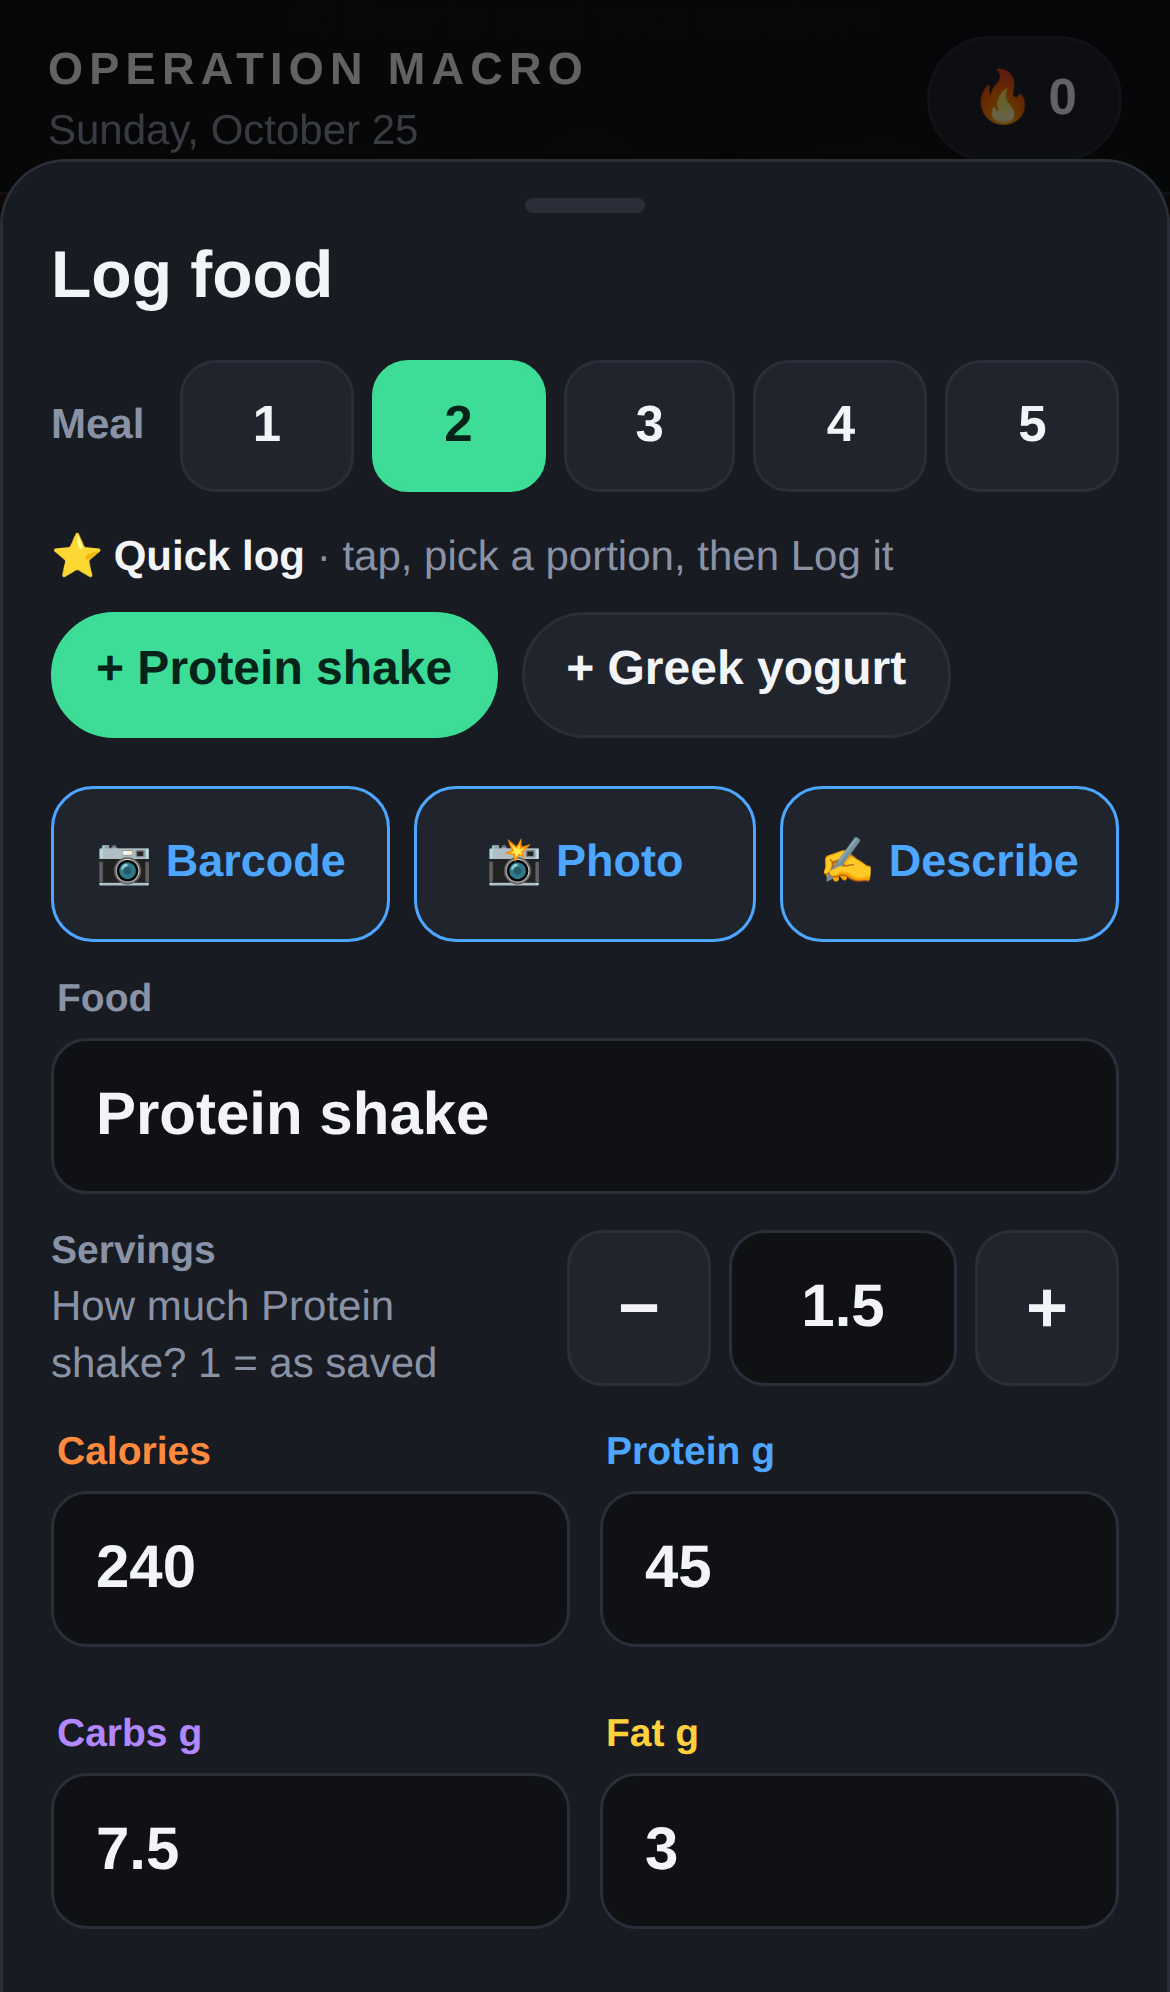
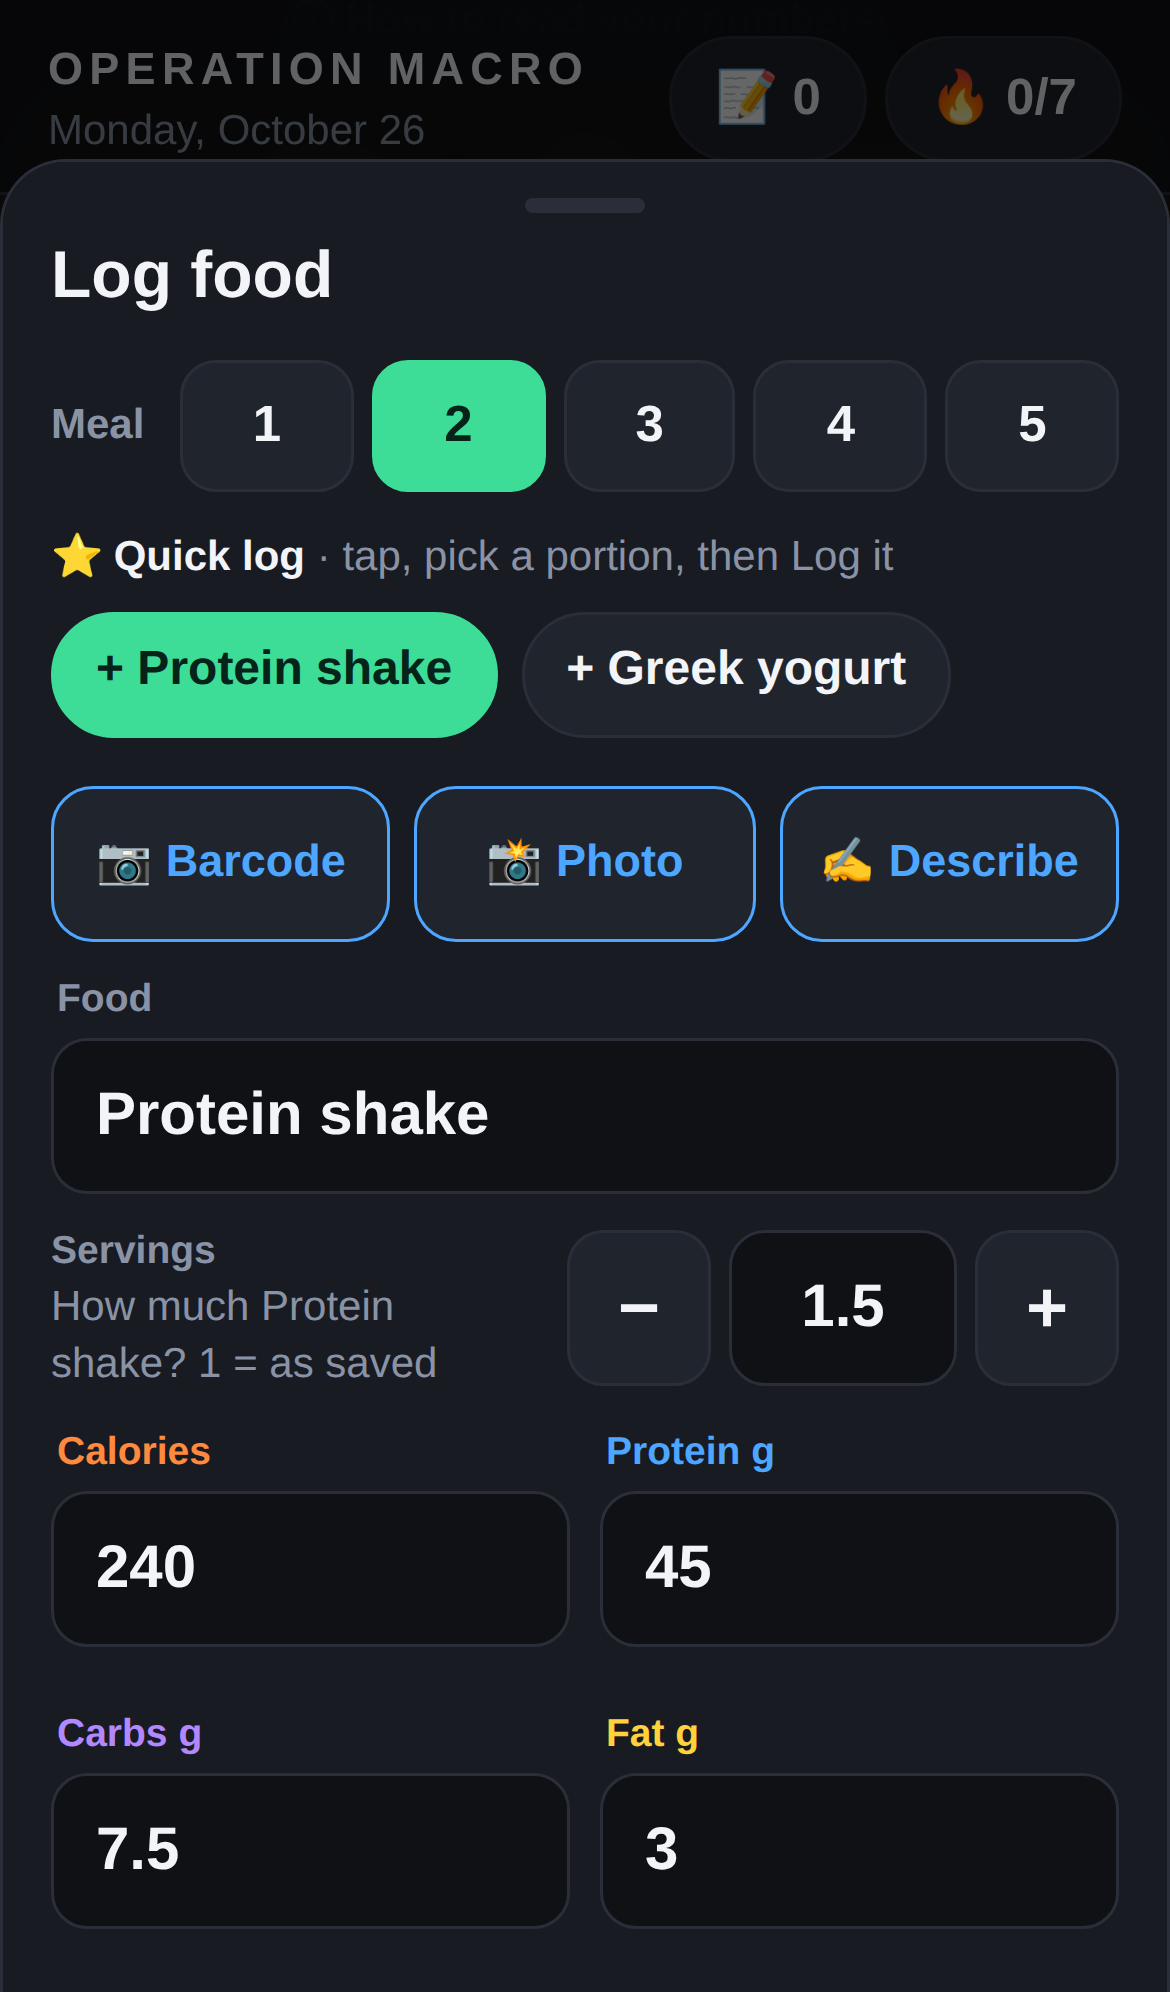
Meals from Describe or Photo open to show each food's breakdown
A meal logged from an estimate keeps its foods (and favorites made from it do
too). On Today, every row shows calories, protein, carbs and fat in their
colors; a grouped meal has a '4 foods' tag and opens to list each food with
its own numbers, plus Change portions to edit each one.

Claude-Session: https://claude.ai/code/session_019qvPJAGJHdnoonbEyePPHH

diff --git a/app.js b/app.js
@@ -10,7 +10,7 @@ const ACCOUNT_SLOT = 'opmacro_account';
 const account = authOn ? (() => { try { return JSON.parse(localStorage.getItem(ACCOUNT_SLOT)); } catch (e) { return null; } })() : null;
 const LEGACY_KEY = 'opmacro_v1', LEGACY_AI_KEY = 'opmacro_ai_key';
 // Signed out (with sign-in on): nothing is read or written until someone signs in.
-const APP_VERSION = 'v63'; // keep in step with sw.js VERSION
+const APP_VERSION = 'v64'; // keep in step with sw.js VERSION
 const STORE_KEY = !authOn ? LEGACY_KEY : account ? `${LEGACY_KEY}:${account.id}` : null;
 const DEFAULT_SETTINGS = { cal: 2200, protein: 225, carbs: 65, fat: 70, weight: 250, goalWeight: 225, sundayLock: true };
 // Ring order on the home screen. k = key on an entry, t = key in settings.
@@ -169,6 +169,7 @@ const sumOf = es => es.reduce((t, e) => ({ cal: t.cal + (+e.cal || 0), p: t.p + 
 
 function addEntry(data) {
   const e = { id: uid(), name: data.name, cal: data.cal, p: data.p, c: data.c, f: data.f, meal: data.meal || defaultMeal(), t: Date.now() };
+  if (data.parts) e.parts = data.parts;
   todayDay().entries.push(e);
   save();
   render();
@@ -201,6 +202,7 @@ function upsertFavorite(data, id) {
                : state.favorites.find(f => f.name.toLowerCase() === data.name.toLowerCase());
   if (!fav) { fav = { id: uid(), uses: 0 }; state.favorites.push(fav); }
   Object.assign(fav, { name: data.name, cal: data.cal, p: data.p, c: data.c, f: data.f });
+  if (data.parts) fav.parts = data.parts; else delete fav.parts;
   save();
 }
 // Quick log and the Favorites tab fill the Log food form instead of logging straight away,
@@ -209,6 +211,7 @@ function fillFavorite(id) {
   const fav = state.favorites.find(f => f.id === id);
   if (!fav || !sheet) return;
   sheet.fav = fav.id;
+  sheet.favParts = fav.parts || null;
   $('#in-name').value = fav.name;
   perServing = {};
   IN.forEach(k => { perServing[k] = fav[k] != null ? +fav[k] : null; });
@@ -366,10 +369,19 @@ function renderToday() {
       .map(([k, l, color]) => `<span><i class="dot" style="background:${color}"></i><b>${fmt(t[k])}</b> ${l}</span>`).join('');
     const items = open ? `<div class="meal-items">${entries.map(e => {
       const isFav = favNames.has(e.name.toLowerCase());
+      const parts = e.parts && e.parts.length > 1 ? e.parts : null, shown = parts && openGroups.has(e.id);
+      const group = parts ? `<span class="group-tag">${shown ? '▾' : '▸'} ${parts.length} foods</span>` : '';
       return `<div class="swipe" data-swipe="${e.id}">
           <div class="swipe-bg"><span class="swipe-fav">⭐ Favorite</span><span class="swipe-del">Delete 🗑</span></div>
-          <button class="entry slim swipe-move" data-entry="${e.id}"><span class="entry-name">${isFav ? '⭐ ' : ''}${esc(e.name)}</span><span class="entry-macros"><b>${fmt(e.cal)}</b> cal · P ${fmt1(e.p)}</span></button>
-        </div>`;
+          <button class="entry slim swipe-move" data-entry="${e.id}"${parts ? ` data-group="${e.id}"` : ''}>
+            <span class="entry-name">${isFav ? '⭐ ' : ''}${esc(e.name)} ${group}</span><span class="entry-macros">${macroLine(e)}</span></button>
+        </div>${shown ? `<div class="group-items">${parts.map(pt => {
+          const m = pt.mult || 1, amt = { cal: pt.cal * m, p: pt.p * m, c: pt.c * m, f: pt.f * m };
+          const sub = [pt.official ? '✓ ' + pt.official : pt.portion, m !== 1 ? `×${+m.toFixed(2)}` : ''].filter(Boolean).join(' · ');
+          return `<div class="group-row"><div class="group-food"><b>${esc(pt.food)}</b>${sub ? `<small>${esc(sub)}</small>` : ''}</div>
+            <div class="entry-macros">${macroLine(amt)}</div></div>`;
+        }).join('')}
+          <button class="link-btn group-edit" type="button" data-entry="${e.id}">✎ Change portions</button></div>` : ''}`;
     }).join('')}</div>` : '';
     return `<div class="meal-card${open ? ' open' : ''}">
       <div class="meal-head" data-meal-toggle="${key}">
@@ -383,10 +395,23 @@ function renderToday() {
   }).join('');
 }
 
-// Which meal cards are open (this visit only; they start closed).
-const openMeals = new Set();
+// Calories plus each macro in its ring color.
+function macroLine(x) {
+  return `<b>${fmt(x.cal)}</b> cal · <span class="mp">P ${fmt1(x.p || 0)}</span> · <span class="mc">C ${fmt1(x.c || 0)}</span> · <span class="mf">F ${fmt1(x.f || 0)}</span>`;
+}
+// Which meal cards, and which grouped meals inside them, are open (this visit only).
+const openMeals = new Set(), openGroups = new Set();
 $('#log').addEventListener('click', ev => {
   if (ev.target.closest('[data-meal-add]')) return;
+  // A meal made of several foods opens to show each one; "Change portions" inside edits it.
+  const grp = ev.target.closest('[data-group]');
+  if (grp) {
+    ev.stopPropagation();
+    const id = grp.dataset.group;
+    openGroups.has(id) ? openGroups.delete(id) : openGroups.add(id);
+    renderToday();
+    return;
+  }
   const t = ev.target.closest('[data-meal-toggle]');
   if (!t) return;
   const k = t.dataset.mealToggle === 'other' ? 'other' : +t.dataset.mealToggle;
@@ -780,7 +805,11 @@ function openSheet(mode, item, prefill, meal) {
   $('#backdrop').hidden = false;
   resetScanState();
   $('#capture-row').hidden = mode === 'entry';
-  if (mode === 'entry' && item) {
+  if (mode === 'entry' && item && item.parts && item.parts.length) {
+    // A meal of several foods: change each food's portion with − / +.
+    estItems = item.parts.map(pt => ({ ...pt, mult: pt.mult || 1, official: pt.official || '' }));
+    showEstItems();
+  } else if (mode === 'entry' && item) {
     // Change the portion of something already logged: the stepper scales its numbers.
     // "Chicken ×2" opens as Chicken at 2 servings.
     const m = servingsIn(item.name);
@@ -824,6 +853,23 @@ function readForm() {
   return data;
 }
 
+// The foods inside a meal from Describe or Photo (or a favorite made from one), at the amounts
+// being logged, so Today can show each one's breakdown. Skipped if the totals were typed over.
+function mealParts(data) {
+  const r = (v, d) => Math.round((+v || 0) * d) / d;
+  let parts = null;
+  if (estItems && estItems.length) {
+    // Each food keeps its matched amount (cal, p, c, f) and how much of it (mult).
+    parts = estItems.filter(it => it.mult > 0).map(it => ({ food: it.food, portion: it.portion || '', official: it.official || '',
+      cal: it.cal, p: it.p, c: it.c, f: it.f, mult: it.mult }));
+  } else if (sheet && sheet.favParts && perServing) {
+    parts = sheet.favParts.map(pt => ({ ...pt, mult: r((pt.mult || 1) * servings, 100) }));
+  }
+  if (!parts || parts.length < 2) return null;
+  const sum = parts.reduce((t, pt) => t + pt.cal * (pt.mult || 1), 0);
+  return Math.abs(sum - data.cal) <= Math.max(15, data.cal * 0.05) ? parts : null;
+}
+
 // Typed a meal in the Food box but no numbers? Estimate it instead of logging zeros.
 function needsEstimate() {
   if (!sheet || !$('#in-name').value.trim()) return false;
@@ -858,6 +904,8 @@ $('#entry-form').addEventListener('submit', async ev => {
   if (!data) { $('#in-name').focus(); return; }
   const { mode, id, code, fav } = sheet;
   if (sheet.meal) data.meal = sheet.meal;
+  const parts = mealParts(data);
+  if (parts) data.parts = parts;
   const asFav = $('#in-fav').checked;
   if (code) rememberBarcode(code, data);
   if (perServing && servings !== 1) data.name = `${data.name} ×${servings}`;
@@ -870,7 +918,7 @@ $('#entry-form').addEventListener('submit', async ev => {
     toast(`Logged ${data.name} · Meal ${e.meal}${asFav ? ' ★' : ''}`);
   } else if (mode === 'entry') {
     const e = todayDay().entries.find(x => x.id === id);
-    if (e) Object.assign(e, data);
+    if (e) { Object.assign(e, data); if (!data.parts) delete e.parts; }
     if (asFav) upsertFavorite(data);
     save(); render(); checkHoorah();
     toast('Entry updated');

diff --git a/style.css b/style.css
@@ -559,11 +559,20 @@ input:focus { border-color: var(--pro); }
 .meal-day { margin-left: auto; }
 .meal-day b { color: var(--cal); }
 .meal-items { border-top: 1px solid var(--line); margin-top: 10px; padding-top: 4px; display: flex; flex-direction: column; }
-.entry.slim { display: flex; justify-content: space-between; align-items: center; gap: 10px; min-height: 44px; padding: 8px 2px;
+.entry.slim { display: flex; flex-direction: column; align-items: flex-start; gap: 2px; min-height: 44px; padding: 8px 2px; text-align: left;
   background: var(--card); border: 0; border-radius: 0; border-bottom: 1px solid var(--line); }
 .meal-items .swipe:last-child .entry.slim { border-bottom: 0; }
 .entry.slim .entry-name { font-size: 15px; font-weight: 600; }
-.entry.slim .entry-macros { margin: 0; white-space: nowrap; font-size: 13px; }
+.entry.slim .entry-macros, .group-row .entry-macros { margin: 0; white-space: nowrap; font-size: 13px; color: var(--muted); }
+.entry-macros b { color: var(--cal); }
+.mp { color: var(--pro); } .mc { color: var(--carb); } .mf { color: var(--fat); }
+.group-tag { display: inline-block; margin-left: 4px; padding: 1px 8px; border-radius: 10px; background: var(--card2);
+  color: var(--muted); font-size: 12px; font-weight: 700; white-space: nowrap; }
+.group-items { margin: 0 0 8px 10px; padding: 2px 0 2px 12px; border-left: 3px solid var(--line); }
+.group-row { padding: 7px 0; border-bottom: 1px dashed var(--line); }
+.group-food b { font-size: 14px; font-weight: 600; }
+.group-food small { display: block; color: var(--muted); font-size: 12px; }
+.group-edit { margin-top: 6px; font-size: 14px; }
 
 /* ---------- Estimate: adjust each part ---------- */
 .est-items { background: var(--bg); border: 1px solid var(--line); border-radius: 14px; padding: 8px 12px; margin-bottom: 12px; }

diff --git a/sw.js b/sw.js
@@ -1,6 +1,6 @@
 // Offline cache for the app shell. Bump VERSION whenever you change a file
 // so phones pick up the new copy.
-const VERSION = 'opmacro-v63';
+const VERSION = 'opmacro-v64';
 const PUSH_CACHE = 'opmacro-push'; // what the evening reminder says; written by the app, kept across versions
 const FILES = [
   './', './index.html', './style.css', './config.js', './quotes.js', './foods.js', './app.js', './manifest.json',
